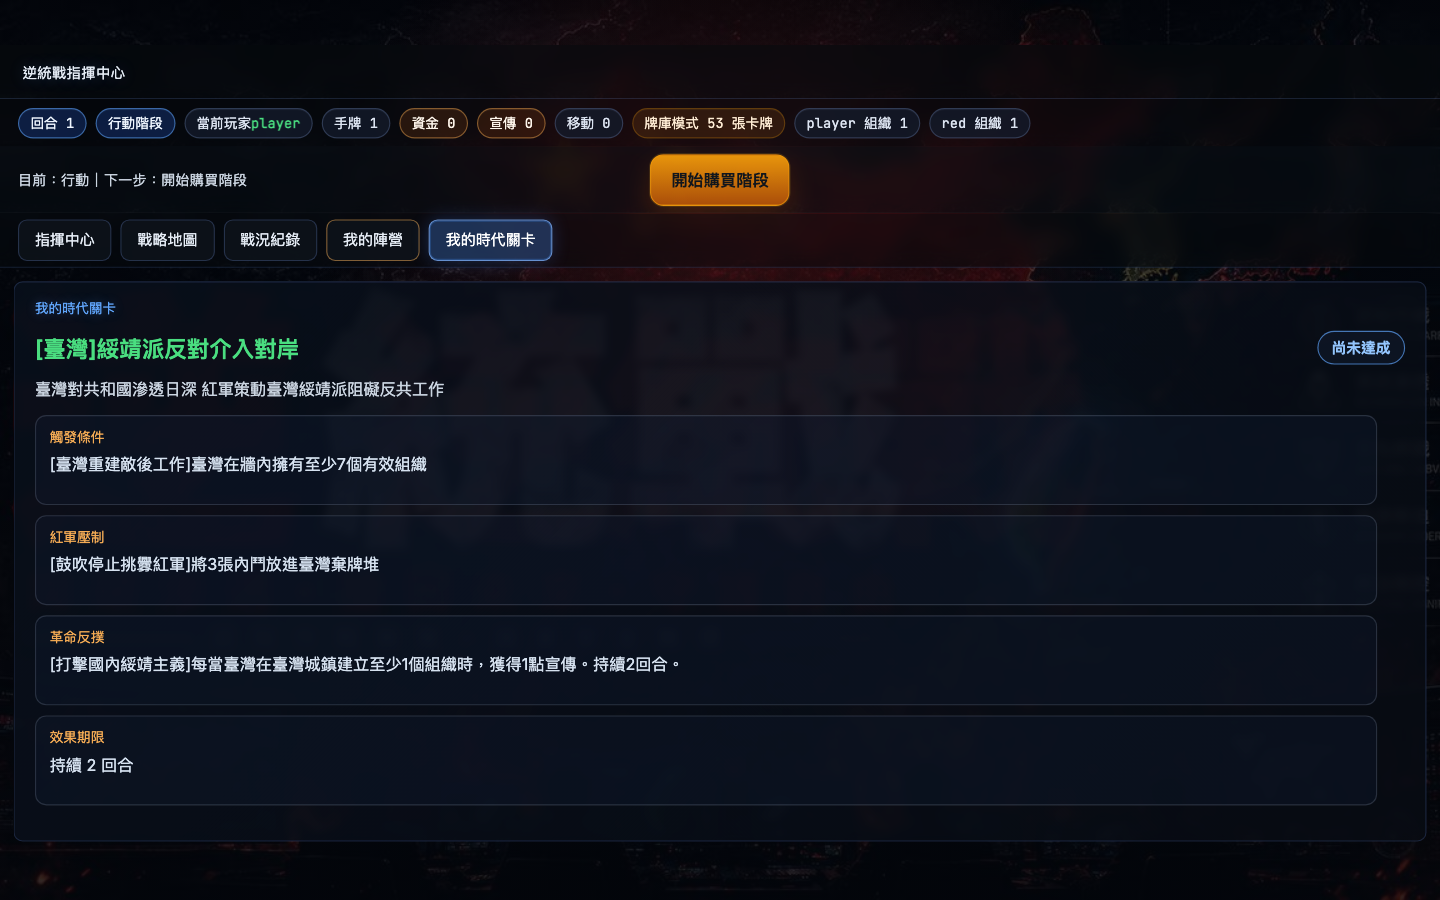
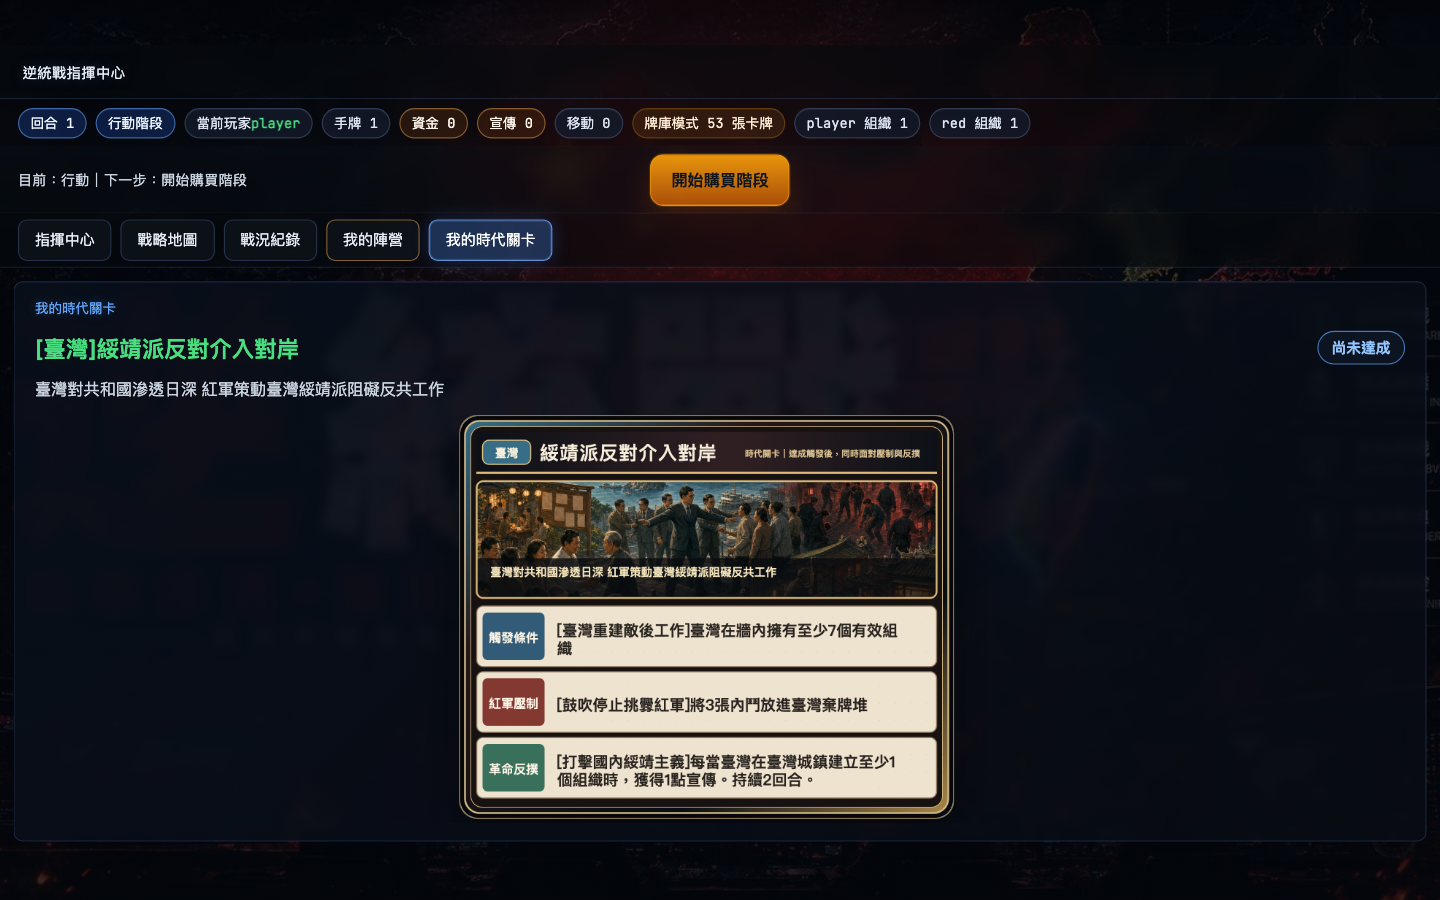
fix: show era stage card art in personal tab

Changed region(s): [[0.0312, 0.4356, 0.6875, 0.9333], [0.0312, 0.5911, 0.2812, 0.6533], [0.0312, 0.8089, 0.0938, 0.8711]]

diff --git a/static/app.js b/static/app.js
@@ -2875,6 +2875,7 @@ function renderMyEraStageView(state = window.lastGameState || {}) {
       ? '紅軍沒有個人時代關卡；其他陣營達成關卡後，效果仍會顯示於全桌的時代通知。'
       : '目前找不到這個陣營對應的時代關卡資料。';
     bodyEl.innerHTML = '';
+    bodyEl.classList.remove('era-card-art-active');
     return;
   }
 
@@ -2896,8 +2897,8 @@ function renderMyEraStageView(state = window.lastGameState || {}) {
     section('革命反撲', stage.fail_text),
     section('效果期限', stage.duration_text),
   ].join('');
-  // 頁內個人資訊維持完整純文字，避免卡面圖像改變 Tab 的高度與捲動行為。
-  bodyEl.innerHTML = fallbackMarkup;
+  bodyEl.innerHTML = eraCardArtMarkup(stage, fallbackMarkup);
+  bodyEl.classList.toggle('era-card-art-active', Boolean(eraCardArtUrl(stage)));
 }
 
 // 勝利畫面（2026-07-19）：state.winner 之前從未被前端顯示，遊戲結束毫無提示

diff --git a/static/index.html b/static/index.html
@@ -3,7 +3,7 @@
 <head>
   <meta charset="UTF-8" />
   <title>REDLINE // STRATEGIC COMMAND</title>
-  <link rel="stylesheet" href="/static/style.css?v=personal-info-tabs-20260728" />
+  <link rel="stylesheet" href="/static/style.css?v=personal-info-tabs-art-20260728" />
 </head>
 <body>
 <div id="stageViewport">
@@ -312,6 +312,6 @@
 </div>
 
 <script src="https://unpkg.com/leaflet@1.9.4/dist/leaflet.js"></script>
-<script src="/static/app.js?v=personal-info-tabs-20260728"></script>
+<script src="/static/app.js?v=personal-info-tabs-art-20260728"></script>
 </body>
 </html>

diff --git a/static/style.css b/static/style.css
@@ -2756,6 +2756,23 @@ body {
   text-align: left;
 }
 
+.my-era-stage-body.era-card-art-active {
+  display: flex;
+  align-items: flex-start;
+  justify-content: center;
+  overflow-y: auto;
+}
+
+.my-era-stage-body.era-card-art-active .era-card-art-shell {
+  flex: 0 0 auto;
+  width: min(100%, 440px);
+  max-width: 440px;
+}
+
+.my-era-stage-body.era-card-art-active .era-card-art-fallback {
+  text-align: left;
+}
+
 .my-era-stage-section {
   padding: 10px 12px;
   margin-bottom: 9px;

diff --git a/scripts/validate_my_era_stage_view.py b/scripts/validate_my_era_stage_view.py
@@ -75,6 +75,25 @@ def inspect_era_tab(page):
         sections: [...document.querySelectorAll('#myEraStageBody .era-achievement-section-title')].map(el => el.textContent),
         texts: [...document.querySelectorAll('#myEraStageBody .modal-body-text')].map(el => el.textContent),
         imageCount: document.querySelectorAll('#myEraStageView img').length,
+        artActive: document.getElementById('myEraStageBody')?.classList.contains('era-card-art-active'),
+        image: (() => {
+          const image = document.querySelector('#myEraStageView .era-card-art-image');
+          const body = document.getElementById('myEraStageBody');
+          if (!image || !body) return null;
+          const rect = image.getBoundingClientRect();
+          const bodyRect = body.getBoundingClientRect();
+          return {
+            alt: image.alt,
+            width: image.naturalWidth,
+            height: image.naturalHeight,
+            rect: {left: rect.left, top: rect.top, right: rect.right, bottom: rect.bottom, width: rect.width, height: rect.height},
+            contained: rect.left >= bodyRect.left && rect.right <= bodyRect.right && rect.top >= bodyRect.top && rect.bottom <= bodyRect.bottom + 1,
+          };
+        })(),
+        fallbackVisible: (() => {
+          const fallback = document.querySelector('#myEraStageView .era-card-art-fallback');
+          return fallback ? getComputedStyle(fallback).display !== 'none' : false;
+        })(),
         scrollHeight: document.getElementById('myEraStageBody')?.scrollHeight,
         clientHeight: document.getElementById('myEraStageBody')?.clientHeight,
         panelFits: !!(viewRect && panelRect)
@@ -151,6 +170,7 @@ def check(browser):
     record("adjacent_faction_tab_still_works", faction_active, {"active": faction_active})
 
     era_button.click()
+    pending_page.wait_for_function("document.querySelector('#myEraStageView .era-card-art-image')?.naturalWidth === 1350")
     pending_page.wait_for_timeout(100)
     pending_data = inspect_era_tab(pending_page)
     record(
@@ -164,16 +184,36 @@ def check(browser):
         pending_data,
     )
     record(
-        "pending_stage_shows_complete_plain_text_fallback",
+        "pending_stage_shows_approved_complete_card_art",
         "[臺灣]綏靖派反對介入對岸" in (pending_data["title"] or "")
         and pending_data["status"] == "尚未達成"
         and bool(pending_data["summary"])
         and pending_data["sections"] == ["觸發條件", "紅軍壓制", "革命反撲", "效果期限"]
         and all(pending_data["texts"])
-        and pending_data["imageCount"] == 0,
+        and pending_data["imageCount"] == 1
+        and pending_data["artActive"]
+        and pending_data["image"] == {
+            "alt": "[臺灣]綏靖派反對介入對岸完整卡面",
+            "width": 1350,
+            "height": 1100,
+            "rect": pending_data["image"]["rect"],
+            "contained": True,
+        }
+        and not pending_data["fallbackVisible"],
         pending_data,
     )
     pending_page.screenshot(path=str(PENDING_SCREENSHOT), full_page=True)
+
+    pending_page.evaluate("document.querySelector('#myEraStageView .era-card-art-image').src = '/static/card-art/era/__missing__.png'")
+    pending_page.wait_for_function("document.querySelector('#myEraStageView .era-card-art-shell')?.classList.contains('era-card-art-load-failed')")
+    fallback_data = inspect_era_tab(pending_page)
+    record(
+        "missing_era_art_falls_back_to_complete_text",
+        fallback_data["fallbackVisible"]
+        and fallback_data["sections"] == ["觸發條件", "紅軍壓制", "革命反撲", "效果期限"]
+        and all(fallback_data["texts"]),
+        fallback_data,
+    )
 
     pending_page.click('#gameTabs [data-view="log"]')
     pending_page.wait_for_timeout(100)
@@ -191,6 +231,7 @@ def check(browser):
     active_setup = setup_era("mongolia")
     active_context, active_page = open_game(browser, active_setup)
     active_page.click("#myEraStageBtn")
+    active_page.wait_for_function("document.querySelector('#myEraStageView .era-card-art-image')?.naturalWidth === 1350")
     active_page.wait_for_timeout(100)
     active_data = inspect_era_tab(active_page)
     record(
@@ -202,7 +243,10 @@ def check(browser):
         and active_data["achieved"] is True
         and active_data["active"] is True
         and active_data["remaining"] == 1
-        and active_data["imageCount"] == 0,
+        and active_data["imageCount"] == 1
+        and active_data["image"]["width"] == 1350
+        and active_data["image"]["height"] == 1100
+        and active_data["image"]["contained"],
         active_data,
     )
     active_page.screenshot(path=str(ACTIVE_SCREENSHOT), full_page=True)
@@ -211,6 +255,7 @@ def check(browser):
     lifecycle_setup = setup_era("taiwan", via_lifecycle=True)
     lifecycle_context, lifecycle_page = open_game(browser, lifecycle_setup)
     lifecycle_page.click("#myEraStageBtn")
+    lifecycle_page.wait_for_function("document.querySelector('#myEraStageView .era-card-art-image')?.naturalWidth === 1350")
     lifecycle_page.wait_for_timeout(100)
     lifecycle_data = inspect_era_tab(lifecycle_page)
     record(

diff --git a/scripts/validate_event_card_zoom_preview.py b/scripts/validate_event_card_zoom_preview.py
@@ -48,8 +48,8 @@ def main() -> None:
         checks,
         "zoom_animation_compact_panel_and_current_cache_bust_exist",
         "@keyframes event-card-zoom-in" in css
-        and "style.css?v=personal-info-tabs-20260728" in html
-        and "app.js?v=personal-info-tabs-20260728" in html
+        and "style.css?v=personal-info-tabs-art-20260728" in html
+        and "app.js?v=personal-info-tabs-art-20260728" in html
         and "width: 180px" in css
         and "height: 147px" in css,
         "zoom keyframes + compact event panel + current static cache bust",

diff --git a/docs/records/event-cards/MY_ERA_STAGE_TAB_VALIDATION.md b/docs/records/event-cards/MY_ERA_STAGE_TAB_VALIDATION.md
@@ -2,7 +2,7 @@
 
 可重跑指令：`uv run --with playwright python scripts/validate_my_era_stage_view.py`
 
-- total: 9 / passed: 9 / failed: 0
+- total: 10 / passed: 10 / failed: 0
 - base URL: http://127.0.0.1:8000
 - screenshots: /Users/benmini/.openclaw/workspace/redline/docs/records/event-cards/my_era_stage_tab_pending.png, /Users/benmini/.openclaw/workspace/redline/docs/records/event-cards/my_era_stage_tab_active.png, /Users/benmini/.openclaw/workspace/redline/docs/records/event-cards/my_era_stage_tab_red_army.png
 
@@ -10,9 +10,10 @@
 - ✅ `personal_info_entries_are_real_adjacent_tabs` — {"era_data_view": "myEraStage", "faction_data_view": "myFaction", "era_onclick": null, "faction_onclick": null}
 - ✅ `personal_tabs_remain_adjacent_without_event_panel_overlap` — {"gapAfterLog": 9, "gapBetweenPersonalTabs": 9, "noEventOverlap": true}
 - ✅ `adjacent_faction_tab_still_works` — {"active": true}
-- ✅ `pending_taiwan_stage_renders_in_main_view_without_modal` — {"viewActive": true, "tabActive": true, "commandActive": false, "modalExists": false, "overlayCount": 0, "title": "[臺灣]綏靖派反對介入對岸", "status": "尚未達成", "statusClass": "my-era-stage-status pending", "summary": "臺灣對共和國滲透日深 紅軍策動臺灣綏靖派阻礙反共工作", "sections": ["觸發條件", "紅軍壓制", "革命反撲", "效果期限"], "texts": ["[臺灣重建敵後工作]臺灣在牆內擁有至少7個有效組織", "[鼓吹停止挑釁紅軍]將3張內鬥放進臺灣棄牌堆", "[打擊國內綏靖主義]每當臺灣在臺灣城鎮建立至少1個組織時，獲得1點宣傳。持續2回合。", "持續 2 回合"], "imageCount": 0, "scrollHeight": 362, "clientHeight": 362, "panelFits": true, "stateId": "taiwan", "achieved": false, "active": false, "remaining": null}
-- ✅ `pending_stage_shows_complete_plain_text_fallback` — {"viewActive": true, "tabActive": true, "commandActive": false, "modalExists": false, "overlayCount": 0, "title": "[臺灣]綏靖派反對介入對岸", "status": "尚未達成", "statusClass": "my-era-stage-status pending", "summary": "臺灣對共和國滲透日深 紅軍策動臺灣綏靖派阻礙反共工作", "sections": ["觸發條件", "紅軍壓制", "革命反撲", "效果期限"], "texts": ["[臺灣重建敵後工作]臺灣在牆內擁有至少7個有效組織", "[鼓吹停止挑釁紅軍]將3張內鬥放進臺灣棄牌堆", "[打擊國內綏靖主義]每當臺灣在臺灣城鎮建立至少1個組織時，獲得1點宣傳。持續2回合。", "持續 2 回合"], "imageCount": 0, "scrollHeight": 362, "clientHeight": 362, "panelFits": true, "stateId": "taiwan", "achieved": false, "active": false, "remaining": null}
+- ✅ `pending_taiwan_stage_renders_in_main_view_without_modal` — {"viewActive": true, "tabActive": true, "commandActive": false, "modalExists": false, "overlayCount": 0, "title": "[臺灣]綏靖派反對介入對岸", "status": "尚未達成", "statusClass": "my-era-stage-status pending", "summary": "臺灣對共和國滲透日深 紅軍策動臺灣綏靖派阻礙反共工作", "sections": ["觸發條件", "紅軍壓制", "革命反撲", "效果期限"], "texts": ["[臺灣重建敵後工作]臺灣在牆內擁有至少7個有效組織", "[鼓吹停止挑釁紅軍]將3張內鬥放進臺灣棄牌堆", "[打擊國內綏靖主義]每當臺灣在臺灣城鎮建立至少1個組織時，獲得1點宣傳。持續2回合。", "持續 2 回合"], "imageCount": 1, "artActive": true, "image": {"alt": "[臺灣]綏靖派反對介入對岸完整卡面", "width": 1350, "height": 1100, "rect": {"left": 459.5625, "top": 416.302734375, "right": 952.3125, "bottom": 817.787109375, "width": 492.75, "height": 401.484375}, "contained": true}, "fallbackVisible": false, "scrollHeight": 363, "clientHeight": 362, "panelFits": true, "stateId": "taiwan", "achieved": false, "active": false, "remaining": null}
+- ✅ `pending_stage_shows_approved_complete_card_art` — {"viewActive": true, "tabActive": true, "commandActive": false, "modalExists": false, "overlayCount": 0, "title": "[臺灣]綏靖派反對介入對岸", "status": "尚未達成", "statusClass": "my-era-stage-status pending", "summary": "臺灣對共和國滲透日深 紅軍策動臺灣綏靖派阻礙反共工作", "sections": ["觸發條件", "紅軍壓制", "革命反撲", "效果期限"], "texts": ["[臺灣重建敵後工作]臺灣在牆內擁有至少7個有效組織", "[鼓吹停止挑釁紅軍]將3張內鬥放進臺灣棄牌堆", "[打擊國內綏靖主義]每當臺灣在臺灣城鎮建立至少1個組織時，獲得1點宣傳。持續2回合。", "持續 2 回合"], "imageCount": 1, "artActive": true, "image": {"alt": "[臺灣]綏靖派反對介入對岸完整卡面", "width": 1350, "height": 1100, "rect": {"left": 459.5625, "top": 416.302734375, "right": 952.3125, "bottom": 817.787109375, "width": 492.75, "height": 401.484375}, "contained": true}, "fallbackVisible": false, "scrollHeight": 363, "clientHeight": 362, "panelFits": true, "stateId": "taiwan", "achieved": false, "active": false, "remaining": null}
+- ✅ `missing_era_art_falls_back_to_complete_text` — {"viewActive": true, "tabActive": true, "commandActive": false, "modalExists": false, "overlayCount": 0, "title": "[臺灣]綏靖派反對介入對岸", "status": "尚未達成", "statusClass": "my-era-stage-status pending", "summary": "臺灣對共和國滲透日深 紅軍策動臺灣綏靖派阻礙反共工作", "sections": ["觸發條件", "紅軍壓制", "革命反撲", "效果期限"], "texts": ["[臺灣重建敵後工作]臺灣在牆內擁有至少7個有效組織", "[鼓吹停止挑釁紅軍]將3張內鬥放進臺灣棄牌堆", "[打擊國內綏靖主義]每當臺灣在臺灣城鎮建立至少1個組織時，獲得1點宣傳。持續2回合。", "持續 2 回合"], "imageCount": 1, "artActive": true, "image": {"alt": "[臺灣]綏靖派反對介入對岸完整卡面", "width": 0, "height": 0, "rect": {"left": 0, "top": 0, "right": 0, "bottom": 0, "width": 0, "height": 0}, "contained": false}, "fallbackVisible": true, "scrollHeight": 405, "clientHeight": 362, "panelFits": true, "stateId": "taiwan", "achieved": false, "active": false, "remaining": null}
 - ✅ `switching_tabs_leaves_era_view_without_close_action` — {"eraActive": false, "logActive": true}
-- ✅ `active_mongolia_stage_shows_achieved_status_and_remaining_turns` — {"viewActive": true, "tabActive": true, "commandActive": false, "modalExists": false, "overlayCount": 0, "title": "[蒙古]莫日根事件爆發", "status": "條件已達成｜剩餘 1 回合", "statusClass": "my-era-stage-status active", "summary": "為保衛草場而死的牧民 引爆南蒙古學生示威 紅軍要想辦法破壞蒙古人團結", "sections": ["觸發條件", "紅軍壓制", "革命反撲", "效果期限"], "texts": ["[牧民維權團體成形]蒙古在牆內擁有至少4個有效組織", "[知識分子互相猜疑]將3張內鬥放進蒙古棄牌堆。", "[南蒙古人世代覺醒]蒙古當回合手牌中的每張宣傳類卡牌 用於購買時可額外提供1點宣傳。", "持續 1 回合"], "imageCount": 0, "scrollHeight": 362, "clientHeight": 362, "panelFits": true, "stateId": "mongolia", "achieved": true, "active": true, "remaining": 1}
-- ✅ `taiwan_stage_triggered_through_turn_lifecycle_is_projected_to_tab` — {"viewActive": true, "tabActive": true, "commandActive": false, "modalExists": false, "overlayCount": 0, "title": "[臺灣]綏靖派反對介入對岸", "status": "條件已達成｜剩餘 2 回合", "statusClass": "my-era-stage-status active", "summary": "臺灣對共和國滲透日深 紅軍策動臺灣綏靖派阻礙反共工作", "sections": ["觸發條件", "紅軍壓制", "革命反撲", "效果期限"], "texts": ["[臺灣重建敵後工作]臺灣在牆內擁有至少7個有效組織", "[鼓吹停止挑釁紅軍]將3張內鬥放進臺灣棄牌堆", "[打擊國內綏靖主義]每當臺灣在臺灣城鎮建立至少1個組織時，獲得1點宣傳。持續2回合。", "持續 2 回合"], "imageCount": 0, "scrollHeight": 362, "clientHeight": 362, "panelFits": true, "stateId": "taiwan", "achieved": true, "active": true, "remaining": 2, "organizations": {"南投": 1, "嘉義": 1, "基隆": 1, "宜蘭": 1, "屏東": 1, "彰化": 1, "新北": 1}}
-- ✅ `red_army_gets_clear_no_personal_stage_message_in_tab` — {"viewActive": true, "tabActive": true, "commandActive": false, "modalExists": false, "overlayCount": 0, "title": "無個人時代關卡", "status": "此陣營沒有專屬時代關卡", "statusClass": "my-era-stage-status unavailable", "summary": "紅軍沒有個人時代關卡；其他陣營達成關卡後，效果仍會顯示於全桌的時代通知。", "sections": [], "texts": [], "imageCount": 0, "scrollHeight": 362, "clientHeight": 362, "panelFits": true, "stateId": null, "achieved": null, "active": null, "remaining": null, "projected": null}
+- ✅ `active_mongolia_stage_shows_achieved_status_and_remaining_turns` — {"viewActive": true, "tabActive": true, "commandActive": false, "modalExists": false, "overlayCount": 0, "title": "[蒙古]莫日根事件爆發", "status": "條件已達成｜剩餘 1 回合", "statusClass": "my-era-stage-status active", "summary": "為保衛草場而死的牧民 引爆南蒙古學生示威 紅軍要想辦法破壞蒙古人團結", "sections": ["觸發條件", "紅軍壓制", "革命反撲", "效果期限"], "texts": ["[牧民維權團體成形]蒙古在牆內擁有至少4個有效組織", "[知識分子互相猜疑]將3張內鬥放進蒙古棄牌堆。", "[南蒙古人世代覺醒]蒙古當回合手牌中的每張宣傳類卡牌 用於購買時可額外提供1點宣傳。", "持續 1 回合"], "imageCount": 1, "artActive": true, "image": {"alt": "[蒙古]莫日根事件爆發完整卡面", "width": 1350, "height": 1100, "rect": {"left": 459.5625, "top": 416.302734375, "right": 952.3125, "bottom": 817.787109375, "width": 492.75, "height": 401.484375}, "contained": true}, "fallbackVisible": false, "scrollHeight": 363, "clientHeight": 362, "panelFits": true, "stateId": "mongolia", "achieved": true, "active": true, "remaining": 1}
+- ✅ `taiwan_stage_triggered_through_turn_lifecycle_is_projected_to_tab` — {"viewActive": true, "tabActive": true, "commandActive": false, "modalExists": false, "overlayCount": 0, "title": "[臺灣]綏靖派反對介入對岸", "status": "條件已達成｜剩餘 2 回合", "statusClass": "my-era-stage-status active", "summary": "臺灣對共和國滲透日深 紅軍策動臺灣綏靖派阻礙反共工作", "sections": ["觸發條件", "紅軍壓制", "革命反撲", "效果期限"], "texts": ["[臺灣重建敵後工作]臺灣在牆內擁有至少7個有效組織", "[鼓吹停止挑釁紅軍]將3張內鬥放進臺灣棄牌堆", "[打擊國內綏靖主義]每當臺灣在臺灣城鎮建立至少1個組織時，獲得1點宣傳。持續2回合。", "持續 2 回合"], "imageCount": 1, "artActive": true, "image": {"alt": "[臺灣]綏靖派反對介入對岸完整卡面", "width": 1350, "height": 1100, "rect": {"left": 459.5625, "top": 416.302734375, "right": 952.3125, "bottom": 817.787109375, "width": 492.75, "height": 401.484375}, "contained": true}, "fallbackVisible": false, "scrollHeight": 363, "clientHeight": 362, "panelFits": true, "stateId": "taiwan", "achieved": true, "active": true, "remaining": 2, "organizations": {"南投": 1, "嘉義": 1, "基隆": 1, "宜蘭": 1, "屏東": 1, "彰化": 1, "新北": 1}}
+- ✅ `red_army_gets_clear_no_personal_stage_message_in_tab` — {"viewActive": true, "tabActive": true, "commandActive": false, "modalExists": false, "overlayCount": 0, "title": "無個人時代關卡", "status": "此陣營沒有專屬時代關卡", "statusClass": "my-era-stage-status unavailable", "summary": "紅軍沒有個人時代關卡；其他陣營達成關卡後，效果仍會顯示於全桌的時代通知。", "sections": [], "texts": [], "imageCount": 0, "artActive": false, "image": null, "fallbackVisible": false, "scrollHeight": 362, "clientHeight": 362, "panelFits": true, "stateId": null, "achieved": null, "active": null, "remaining": null, "projected": null}

diff --git a/TODO.md b/TODO.md
@@ -289,8 +289,8 @@
   - 實作方向：不強制使用 `<iframe>`。優先評估沿用現有 Tab router／content panel，以原生 DOM component 在同一頁渲染，避免 iframe 的尺寸同步、重複樣式、焦點與狀態傳遞成本；若現有架構確實適合再採 iframe。
   - 需保留：完整卡面或純文字 fallback、目前達成狀態／剩餘回合、紅軍無個人時代關卡提示、陣營能力與限制內容，以及圖片載入失敗時的備援。
   - 需檢查：Tab active 樣式、頁內捲動與響應式高度、事件卡面板重疊、從 modal 遷移後的鍵盤操作，以及既有 `openMyFactionModal()`／時代關卡 modal 邏輯如何去除或重用，避免留下雙重入口。
-  - 2026-07-28 已完成：兩個入口改為標準 `data-view` Tab，內容直接渲染於 `#myFactionView`／`#myEraStageView`；舊 modal DOM、開關函式與關閉按鈕完整移除，切換其他 Tab 即離開。陣營四區、viewer-scoped 時代狀態、紅軍無關卡提示皆保留；時代關卡頁採完整純文字四區與內部捲動，不綁卡面圖片。
-  - 驗證：`validate_my_faction_modal.py` 6/6、`validate_my_era_stage_view.py` 9/9、`validate_event_card_zoom_preview.py` 11/11；正式 proof：`docs/records/playtest-flow/my_faction_tab{,_hong_kong}.png`、`docs/records/event-cards/my_era_stage_tab_{pending,active,red_army}.png`。
+  - 2026-07-28 已完成：兩個入口改為標準 `data-view` Tab，內容直接渲染於 `#myFactionView`／`#myEraStageView`；舊 modal DOM、開關函式與關閉按鈕完整移除，切換其他 Tab 即離開。陣營四區、viewer-scoped 時代狀態、紅軍無關卡提示皆保留；依使用者後續校正，時代關卡頁以已核准完整圖片卡面為主要內容，狀態顯示於圖片外，圖片載入失敗才切換完整純文字四區備援。
+  - 驗證：`validate_my_faction_modal.py` 6/6、`validate_my_era_stage_view.py` 10/10、`validate_event_card_zoom_preview.py` 11/11；正式 proof：`docs/records/playtest-flow/my_faction_tab{,_hong_kong}.png`、`docs/records/event-cards/my_era_stage_tab_{pending,active,red_army}.png`。
   - 回報截圖：`/Users/benmini/.hermes/image_cache/img_431cc7fcb20e.jpg`。
 
 - [done] Playtest bug：臺灣已在牆內擁有 7 個有效組織，仍未觸發時代關卡。
@@ -308,7 +308,7 @@
 2. **S｜修金門標籤**：金門資料與座標皆存在，初步判斷為金門／廈門永久 tooltip 疊位；為兩城共用一套個別 direction/offset，驗證一般／移動／建立狀態及多個 zoom level。
 3. **S｜整理側欄按鈕與取消文字**：把「建立組織」移到「確認移動」上方；現行取消只清除目的地、保留起點，先改成明確的「取消目的地（保留起點）」與提示，避免誤解。
 4. **S–M｜候選 marker 視覺修正**：候選改用不屬於任何陣營的中性色外環／透明填色；不可再用橘色實心 overlay 蓋住既有組織的陣營實心色。與第 3 項可同批實作、同一組 browser proof。
-5. **DONE｜M–L｜「我的陣營／我的時代關卡」改真正頁內 Tab**：已新增兩個 `.game-view` 與 `data-view`，移除 modal DOM／開關函式與雙重入口；保留 viewer-scoped 狀態、完整純文字、紅軍無關卡提示及頁內捲動。
+5. **DONE｜M–L｜「我的陣營／我的時代關卡」改真正頁內 Tab**：已新增兩個 `.game-view` 與 `data-view`，移除 modal DOM／開關函式與雙重入口；保留 viewer-scoped 狀態、時代關卡完整圖片卡面＋純文字載入失敗備援、紅軍無關卡提示及頁內捲動。
 6. **DONE｜M–L（P0）｜修臺灣時代關卡不觸發**：已在正常 action-first lifecycle 加入可靠 era trigger 檢查點，並完成多關卡 pending-choice queue、auto event 延後、一次性啟動履歷、到期後 UI 狀態與完整 runtime/browser 回歸。
 7. **M–L｜後端投影合法移動目的地**：不要在 JS 複製陣營規則；把 `move_organization()` 共用的合法性抽成 helper，於 viewer state 提供 legal moves，前端 `movementOptionsForTown()` 只消費後端結果，伺服器仍保留最終拒絕檢查。
 8. **M–L｜聚焦起點／合法目的地＋空白點擊退出**：依賴第 7 項的合法候選；只讓起點與合法目的地保持可互動／強調，新增統一 `exitMovementSelection()`，並處理 marker click 冒泡、pending support choice 例外及完整狀態清理。第 3、4、7、8 項建議視為同一個移動 UI 狀態機批次，但依序落地、分段驗證。
